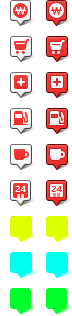
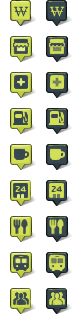
지도 이미지

diff --git a/src/components/Apt/AptDetail.vue b/src/components/Apt/AptDetail.vue
@@ -238,7 +238,8 @@ export default {
       }
     },
     addMarker(position, order) {
-      var imageSrc = 'https://lab.ssafy.com/at8in/finalhappyvue/uploads/54c41d8848753f2c4af92e215c3a22ce/places_category.png', // 마커 이미지 url, 스프라이트 이미지를 씁니다
+      var imageSrc =
+          'https://lab.ssafy.com/at8in/finalhappyvue/uploads/1967ac4257aa15885815b81f43ef7f4d/places_category.png', // 마커 이미지 url, 스프라이트 이미지를 씁니다
         imageSize = new kakao.maps.Size(27, 28), // 마커 이미지의 크기
         imgOptions = {
           spriteSize: new kakao.maps.Size(72, 316), // 스프라이트 이미지의 크기
